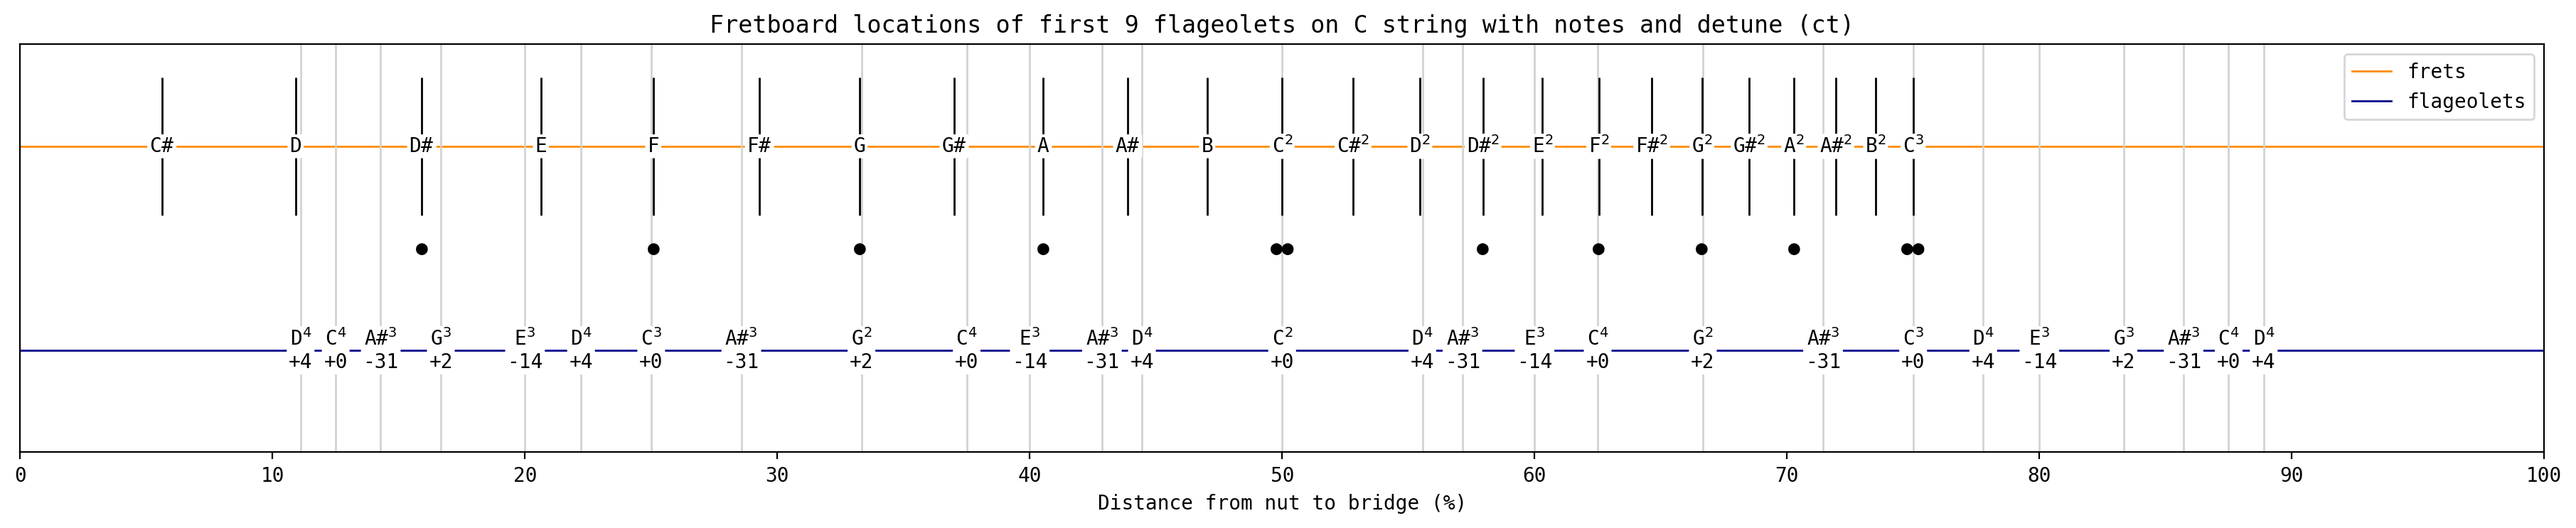
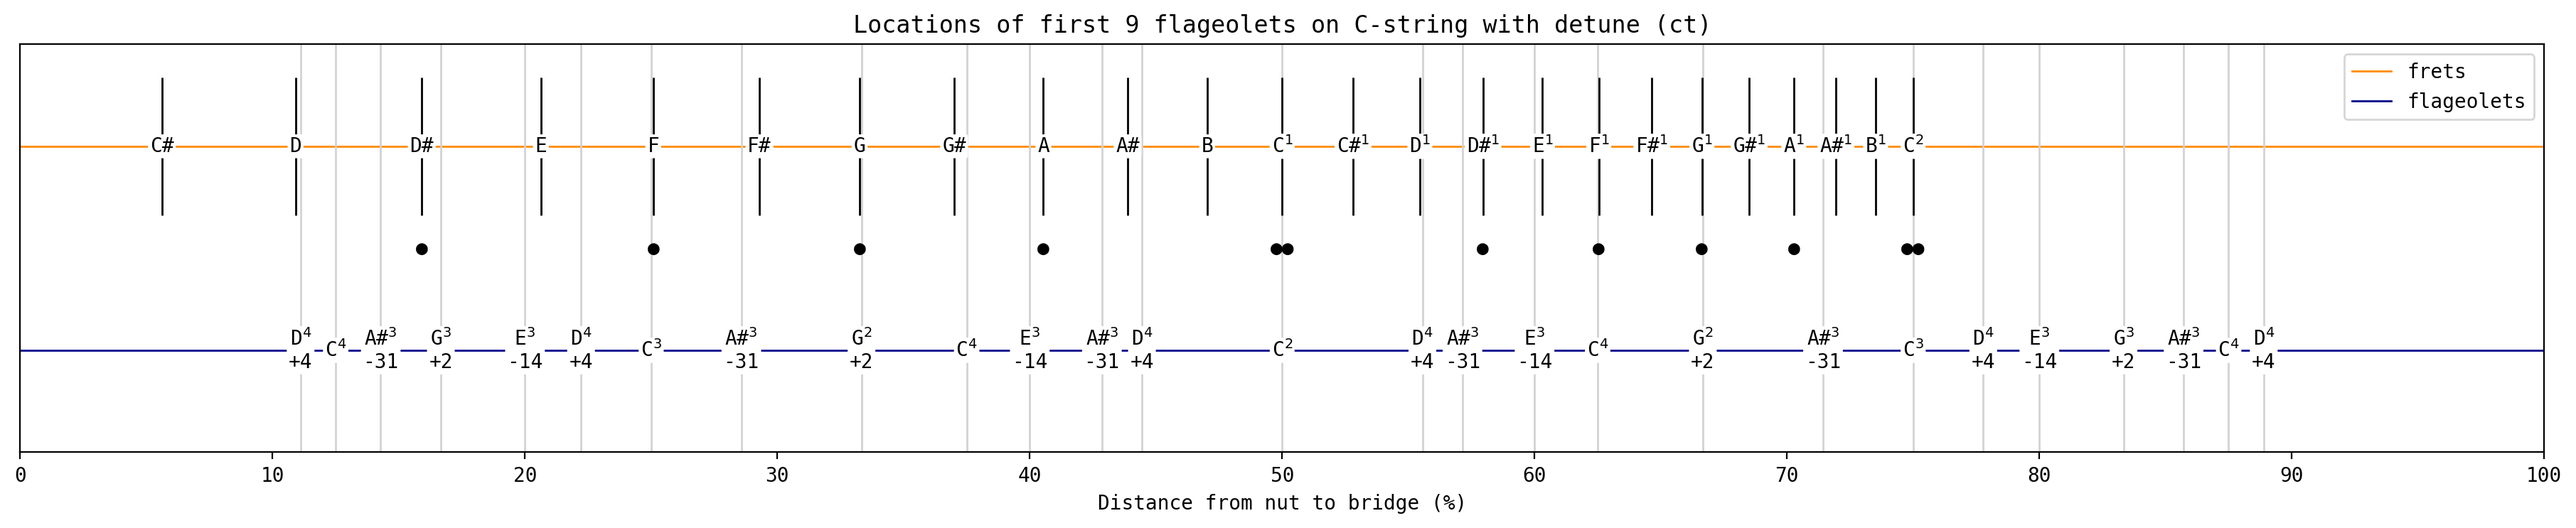
Modify octave offset

Changed region(s): [[0.2807, 0.031, 0.7174, 0.0619]]

diff --git a/main.py b/main.py
@@ -31,19 +31,20 @@ def plot_flagiolets(root_note):
     ax.set_xlabel("Distance from nut to bridge (%)")
     ax.get_yaxis().set_visible(False)
     bbox_style = dict(facecolor="white", edgecolor="none", boxstyle="round, pad=0.1")
-    plt.title(
-        f"Fretboard locations of first 9 flageolets on {root_note} string with notes and detune (ct)"
-    )
+    plt.title(f"Locations of first 9 flageolets on {root_note}-string with detune (ct)")
     plt.legend()
 
+    # Index of root note in pitch class table. Used later to calculate notes.
     root_idx = PITCH_CLASS_TABLE.index(root_note)
 
-    # Draw harmonics.
     existing_distances = set()
     for harmonic in harmonics:
+        # Every nth harmonic has n-1 nodes on the string. Iterate through
+        # all of them.
         for numerator in range(1, harmonic):
             distance = scale_length * numerator / harmonic
 
+            # Check for existing lower-order nodes.
             if distance in existing_distances:
                 continue
 
@@ -62,6 +63,8 @@ def plot_flagiolets(root_note):
             num_cents = 100 * (num_semitones - rounded_num_semitones)
             rounded_num_cents = round(num_cents)
 
+            # Draw flageolets.
+            num_cents_str = "" if rounded_num_cents == 0 else f"\n{rounded_num_cents:+}"
             ax.plot(
                 distance,
                 0,
@@ -74,9 +77,7 @@ def plot_flagiolets(root_note):
             ax.text(
                 distance,
                 0,
-                f"{pitch_class}$^{{{num_octaves + 1}}}$"
-                + "\n"
-                + f"{rounded_num_cents:+}",
+                f"{pitch_class}$^{{{num_octaves + 1}}}$" + num_cents_str,
                 horizontalalignment="center",
                 verticalalignment="center",
                 bbox=bbox_style,
@@ -87,7 +88,6 @@ def plot_flagiolets(root_note):
     # Mark octaves with two dots.
     marked_octaves = [12, 24, 36]
 
-    # Draw frets.
     for fret in frets:
         # Use equal temperament for fret spacing calculations.
         distance = scale_length - scale_length / 2 ** (fret / 12)
@@ -99,20 +99,21 @@ def plot_flagiolets(root_note):
         pitch_class_idx = (root_idx + fret) % 12
         pitch_class = PITCH_CLASS_TABLE[pitch_class_idx]
 
-        octave_str = "" if num_octaves == 0 else f"{num_octaves + 1}"
-
+        # Draw frets.
+        octave_str = "" if num_octaves == 0 else f"$^{{{num_octaves}}}$"
         ax.plot(
             distance, 1, color="black", marker="|", ms=70, alpha=1, markeredgewidth=1
         )
         ax.text(
             distance,
             1,
-            f"{pitch_class}$^{{{octave_str}}}$",
+            f"{pitch_class}{octave_str}",
             horizontalalignment="center",
             verticalalignment="center",
             bbox=bbox_style,
         )
 
+        # Draw fret markers.
         if fret in marked_frets:
             ax.text(
                 distance,
@@ -121,7 +122,6 @@ def plot_flagiolets(root_note):
                 horizontalalignment="center",
                 verticalalignment="center",
             )
-
         if fret in marked_octaves:
             ax.text(
                 distance,
